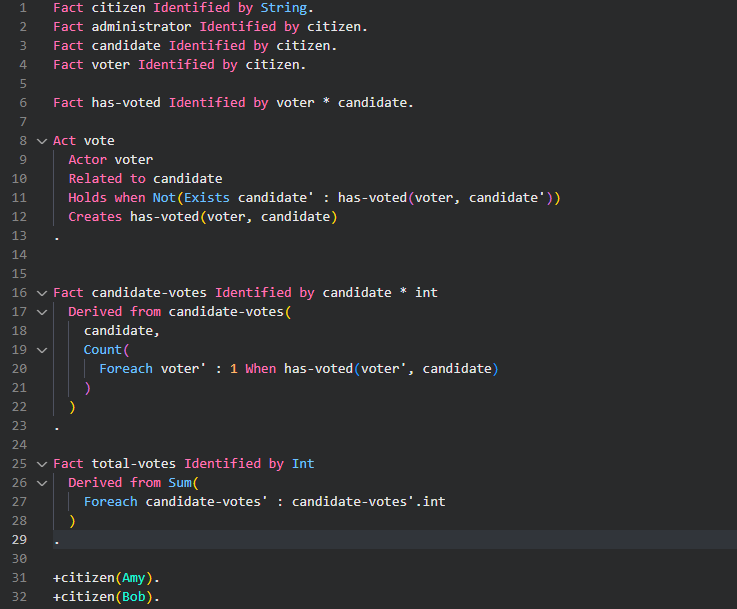
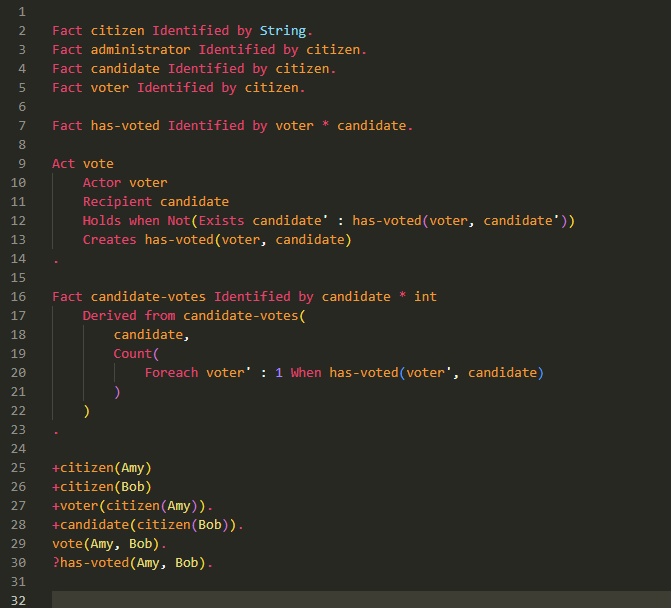
Changed default example

diff --git a/README.md b/README.md
@@ -7,7 +7,7 @@ Adds basic syntax highlighting for most keywords, buildin functions and data typ
 
 
 ![Example syntax hightlighting](img/example.png)  
-_Example snippet of eFLINT using the [Panda Syntax](https://marketplace.visualstudio.com/items?itemName=tinkertrain.theme-panda) theme._
+_Example of the eFLINT syntax highlighter using the builtin Monokai theme._
 
 More constructs or features may be added in the future. Ideally, a language server might even provide much more advanced syntax highlighting.
 
